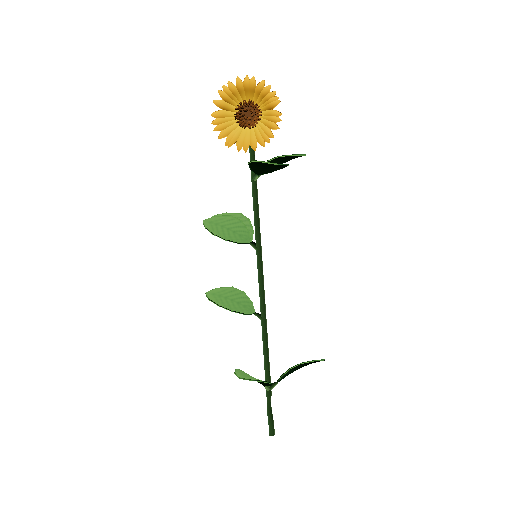
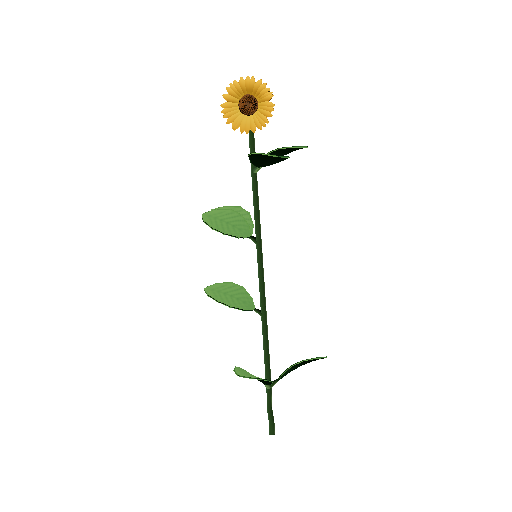
Change Sunflower

diff --git a/src/app/core/data/default-flower-previews.ts b/src/app/core/data/default-flower-previews.ts
@@ -9,7 +9,7 @@ export const DEFAULT_FLOWER_PREVIEWS: Readonly<Record<string, {key: string; url:
     "url": "previews/peony-blossom.png"
   },
   "daisy": {
-    "key": "png-v2:n4gsbj:daisy",
+    "key": "png-v2:1g6x8ss:daisy",
     "url": "previews/daisy.png"
   },
   "lilac": {
@@ -21,7 +21,7 @@ export const DEFAULT_FLOWER_PREVIEWS: Readonly<Record<string, {key: string; url:
     "url": "previews/neue-blume.png"
   },
   "daisy-blossom": {
-    "key": "png-v2:l3bj3z:daisy-blossom",
+    "key": "png-v2:qzk92g:daisy-blossom",
     "url": "previews/daisy-blossom.png"
   },
   "neue-blume-2": {
@@ -45,7 +45,7 @@ export const DEFAULT_FLOWER_PREVIEWS: Readonly<Record<string, {key: string; url:
     "url": "previews/neue-blume-3.png"
   },
   "sunflower": {
-    "key": "png-v2:z7xcoi:sunflower",
+    "key": "png-v2:10gfbqp:sunflower",
     "url": "previews/sunflower.png"
   },
   "tulip": {